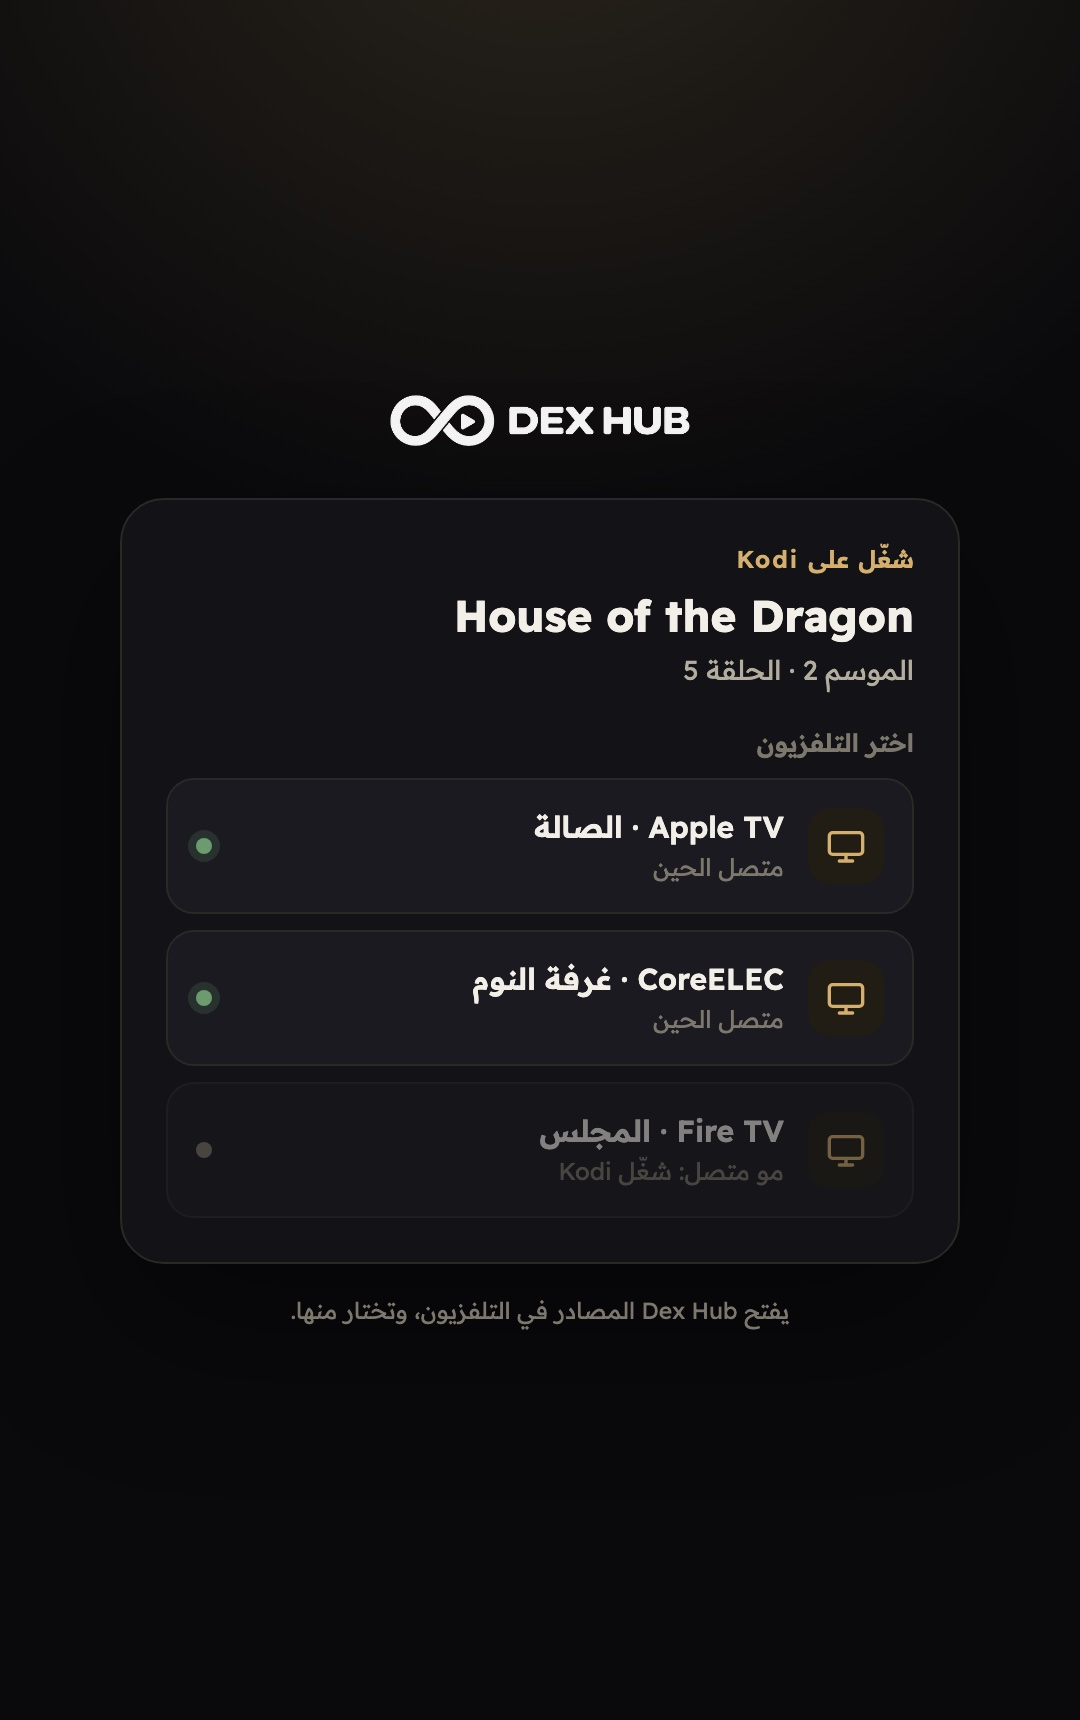
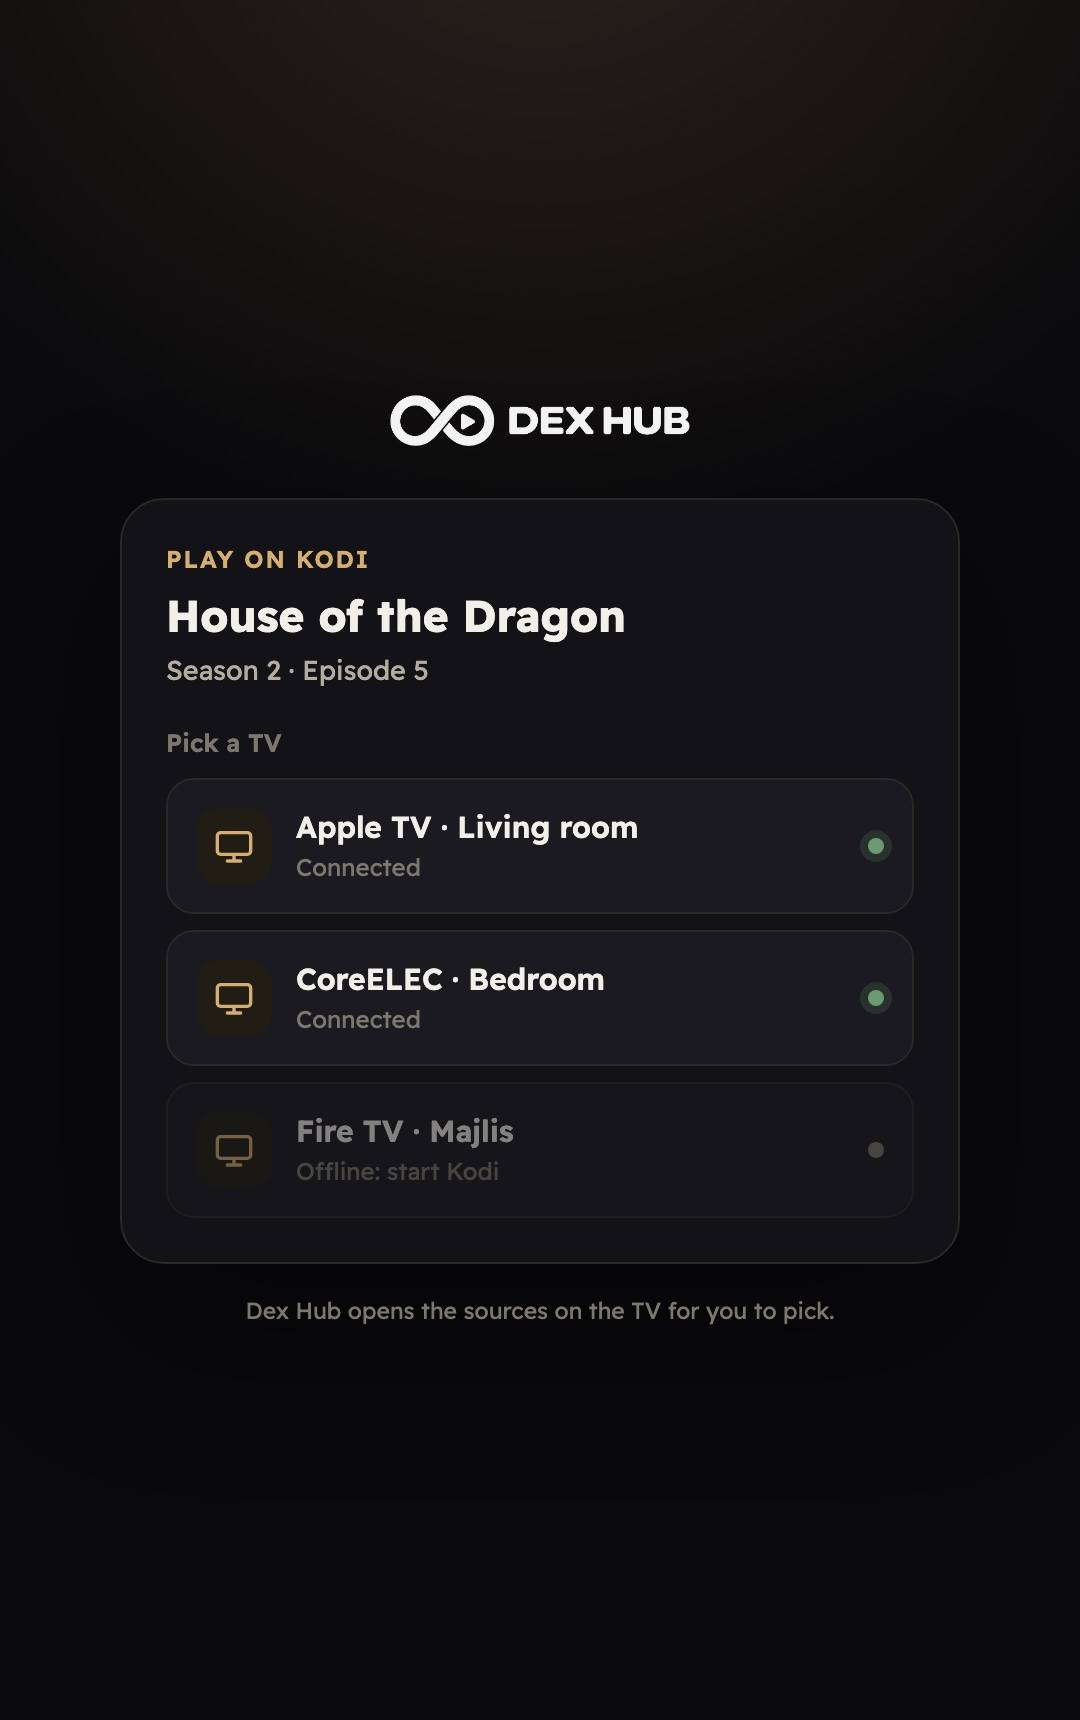
README: the real Dex Hub mark in the diagram, DexCloud screenshots in English
The "Any source in. Any skin out." diagram uses Dex Hub's own infinity and play
mark (it showed two plain rings) and is a PNG now. The Telegram alert, Play on
Kodi and ready library screenshots are retaken in English; the library's folder
names sit under their covers, which carry their own titles.

diff --git a/README.md b/README.md
@@ -20,7 +20,7 @@ Any Stremio & Nuvio add-on · Plex, Emby, Jellyfin & Silo · Live TV · Native T
 
 ## Why Dex Hub
 
-<img src=".github/screenshots/works-with-everything.svg" alt="Any source in, any skin out: Stremio and Nuvio add-ons, your own servers, Live TV and your accounts go into Dex Hub; it plays in the Dex Hub skin, any other skin, Arctic Fuse 3 or your skin's widgets" />
+<img src=".github/screenshots/works-with-everything.png" alt="Any source in, any skin out: Stremio and Nuvio add-ons, your own servers, Live TV and your accounts go into Dex Hub; it plays in the Dex Hub skin, any other skin, Arctic Fuse 3 or your skin's widgets" />
 
 **It takes any add-on as a source.** Paste the link of any Stremio or Nuvio add-on (Torrentio, AIOStreams, Comet, MediaFusion, your own) and it joins the search. Your Plex, Emby, Jellyfin and Silo servers sit in the same picker, next to debrid, Usenet and direct links. No add-on is locked in and none is left out.
 
